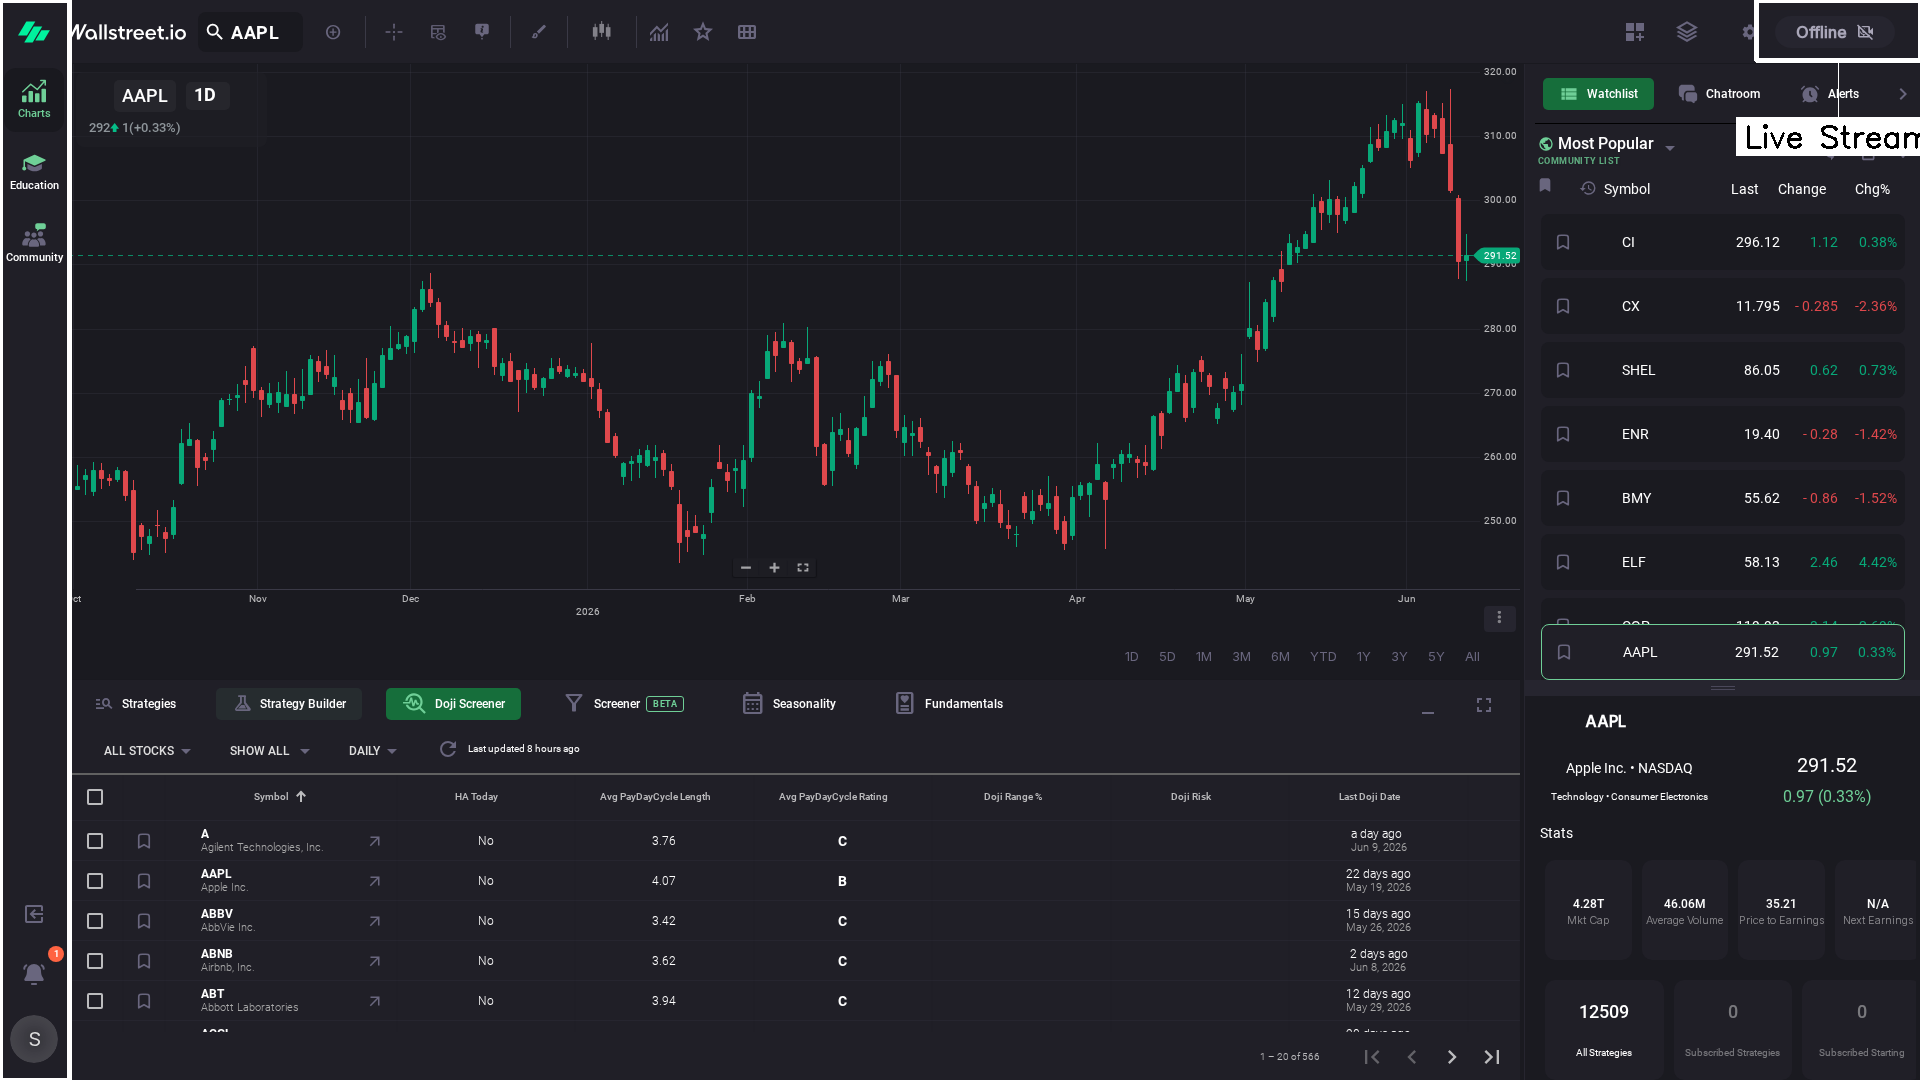
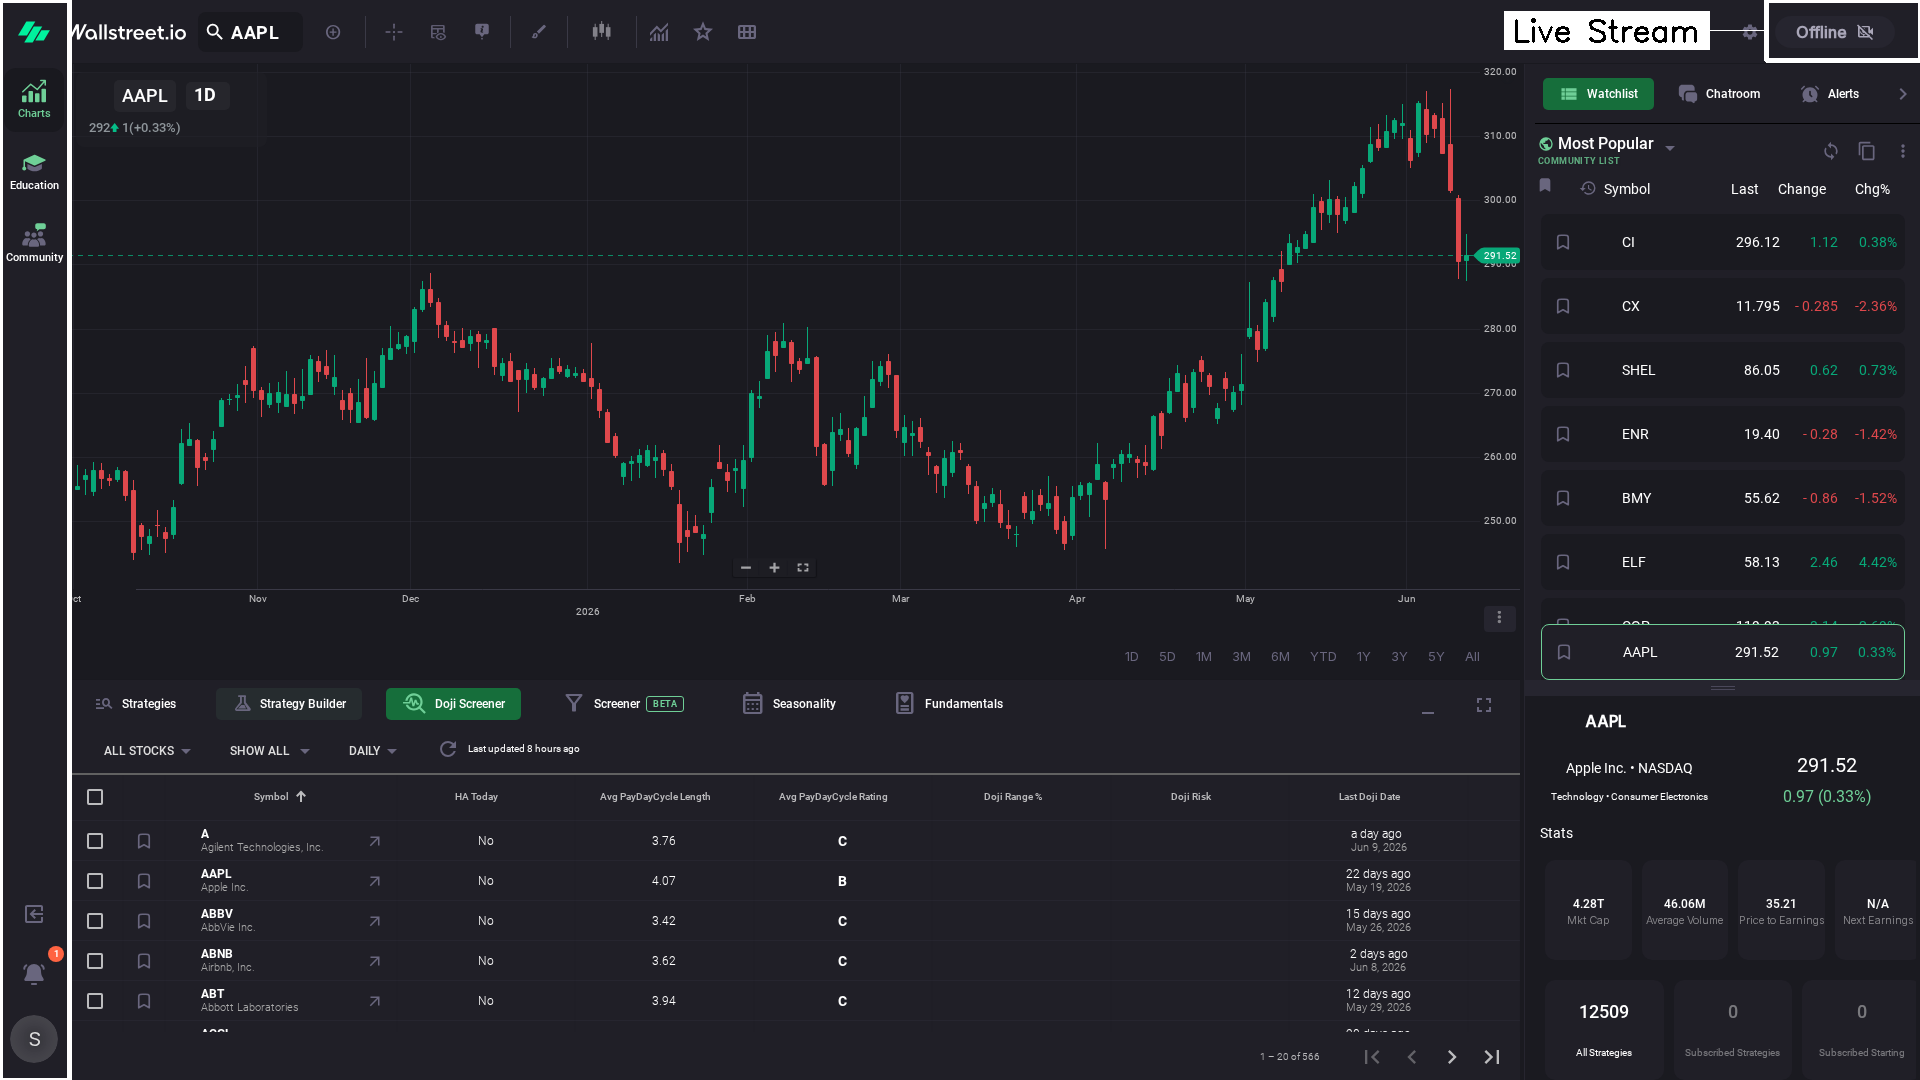
Add ability to put label to the side for bounding boxes.

Changed region(s): [[0.7812, 0.0, 0.9375, 0.0611], [0.9062, 0.0917, 1.0, 0.1528]]

diff --git a/scripts/screenshot.py b/scripts/screenshot.py
@@ -233,8 +233,8 @@ def norm_bbox(img, x1, y1, x2, y2):
     return bbox
 
 
-def add_cv2_label(img, text, bbox, below=True, gap=0, connector=False):
-    """Black text on a white box, centered horizontally on a bbox."""
+def add_cv2_label(img, text, bbox, side="below", gap=0, connector=False):
+    """Black text on a white box, placed on a side of a bbox."""
     x1, y1, x2, y2 = bbox
     font = cv2.FONT_HERSHEY_SIMPLEX
     size = 1
@@ -244,16 +244,33 @@ def add_cv2_label(img, text, bbox, below=True, gap=0, connector=False):
     box_w = text_w + 2 * padding
     box_h = text_h + 2 * padding
     center_x = (x1 + x2) // 2
-    label_x1 = center_x - box_w // 2
-    label_y1 = (y2 + gap) if below else (y1 - box_h - gap)
+    center_y = (y1 + y2) // 2
+    if side == "below":
+        label_x1 = center_x - box_w // 2
+        label_y1 = y2 + gap
+    elif side == "above":
+        label_x1 = center_x - box_w // 2
+        label_y1 = y1 - box_h - gap
+    elif side == "left":
+        label_x1 = x1 - box_w - gap
+        label_y1 = center_y - box_h // 2
+    elif side == "right":
+        label_x1 = x2 + gap
+        label_y1 = center_y - box_h // 2
+    else:
+        raise ValueError(f"side must be below, above, left, or right, not {side!r}")
     label_x2 = label_x1 + box_w
     label_y2 = label_y1 + box_h
     if connector:
         line_color = (255, 255, 255)
-        if below:
+        if side == "below":
             cv2.line(img, (center_x, y2), (center_x, label_y1), line_color, 1)
-        else:
+        elif side == "above":
             cv2.line(img, (center_x, label_y2), (center_x, y1), line_color, 1)
+        elif side == "left":
+            cv2.line(img, (x1, center_y), (label_x2, center_y), line_color, 1)
+        elif side == "right":
+            cv2.line(img, (x2, center_y), (label_x1, center_y), line_color, 1)
     cv2.rectangle(img, (label_x1, label_y1), (label_x2, label_y2), (255, 255, 255), -1)
     text_x = label_x1 + (box_w - text_w) // 2
     text_y = label_y1 + (box_h + text_h) // 2
@@ -268,10 +285,12 @@ def markup_app_account_bar():
     app_account = norm_bbox(img, 0, 0, 0.036, 1.0)
     img = bbv.draw_box(img, app_account)
     # Live Stream
-    live_stream = norm_bbox(img, 0.915, 0.0, 1.0, 0.056)
+    live_stream = norm_bbox(img, 0.92, 0.0, 1.0, 0.056)
     img = bbv.draw_box(img, live_stream)
     gap = int(0.03 * img.shape[1])
-    img = add_cv2_label(img, "Live Stream", live_stream, gap=gap, connector=True)
+    img = add_cv2_label(
+        img, "Live Stream", live_stream, side="left", gap=gap, connector=True
+    )
     cv2.imwrite(COMPLETE / Shot.APP_ACCOUNT_BAR.value, img)
 
 